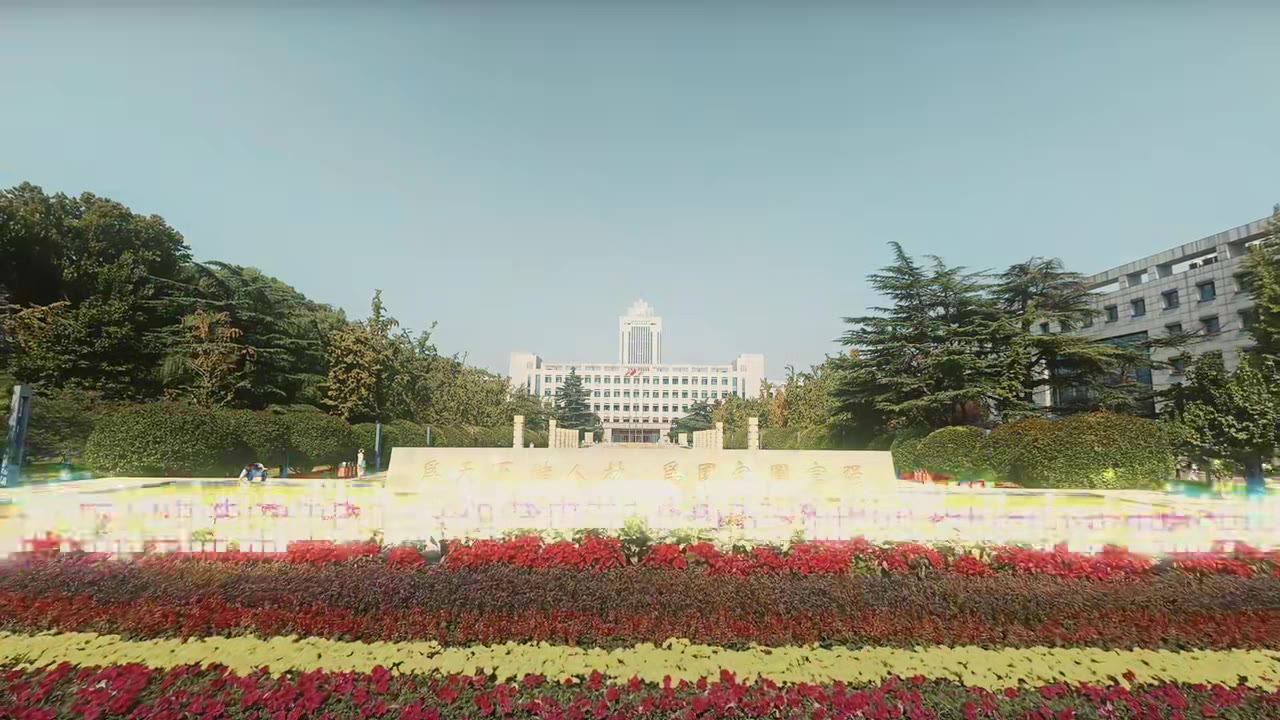
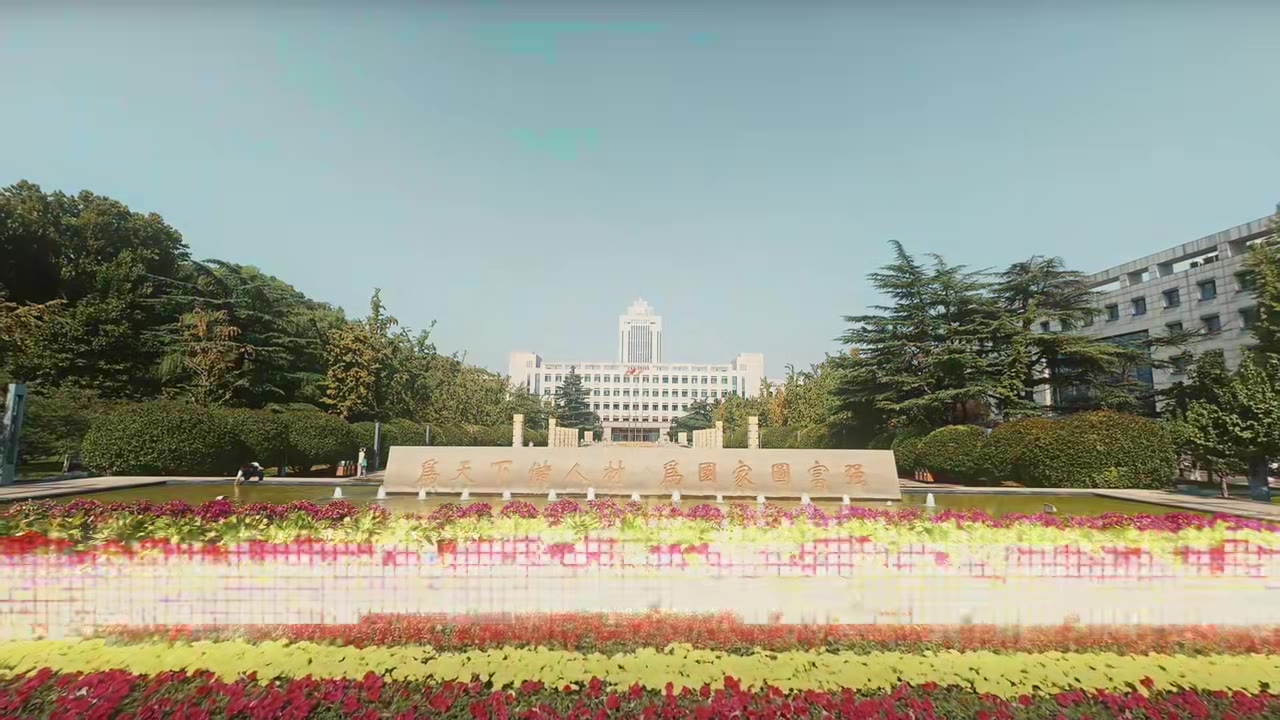
第12批：吉大避开红色楼名标签
Claude-Session: https://claude.ai/code/session_013tM9vABeL9Jx1iabse7zgD

diff --git a/college-videos/batches/batch12.py b/college-videos/batches/batch12.py
@@ -128,12 +128,12 @@ OVR = {
             "reveal": [sh("c4", 7.5, 13.5, **JC)],
             "history": [sh("c4", 35.0, 41.0, **JC), sh("c4", 52.5, 58.0, **JC), sh("c4", 80.0, 86.0, **JC)],
             "data": [sh("c4", 86.0, 91.9, **JC), sh("c4", 13.5, 19.5, **JC)],
-            "majors": [sh("c4", 41.0, 44.0, **JC), sh("c4", 55.0, 61.0, **JC)],
+            "majors": [sh("c4", 41.0, 44.0, **JC), sh("c4", 55.0, 58.5, **JC)],
             "campus": [sh("c4", 65.0, 74.5, chunk=0, tag="校园中轴", **JC), sh("c4", 122.5, 128.5, chunk=1, tag="鼎新楼", **JC),
                        sh("c4", 110.0, 112.4, chunk=2, tag="运动场", **JC)],
-            "people": [sh("c4", 47.5, 49.6, **JC)],
+            "people": [sh("c4", 66.0, 71.0, **JC)],
             "fit": [sh("c4", 30.0, 34.9, **JC)],
-            "ending": [sh("c4", 125.0, 128.5, **JC), sh("c4", 65.0, 70.0, **JC)],
+            "ending": [sh("c4", 125.0, 128.5, **JC), sh("c4", 35.0, 40.0, **JC)],
         })),
     "hit": ("01", dict(
         cover_shot=["c4", 62.0],
